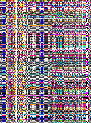
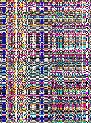
optimized png generation in ChunkyPNG

diff --git a/src/mappacks.rb b/src/mappacks.rb
@@ -415,7 +415,7 @@ module Map
       bg_color = PALETTE[2, palette_idx]
       fg_color = PALETTE[0, palette_idx]
       image = ChunkyPNG::Image.new(WIDTH, HEIGHT, bg_color)
-      next image.to_blob if blank
+      next image.to_blob(:fast_rgba) if blank
       bench(:step, 'Setup     ') if BENCH_IMAGES
 
       # Initialize tile and object images in the palette
@@ -495,7 +495,7 @@ module Map
       end
       bench(:step, 'Borders   ') if BENCH_IMAGES
 
-      res = image.to_blob
+      res = image.to_blob(:fast_rgba)
       bench(:step, 'Blobify   ') if BENCH_IMAGES
       res
     end
@@ -525,7 +525,7 @@ module Map
 
     _fork do
       # Parse palette
-      bench(:start)
+      bench(:start) if BENCH_IMAGES
       themes = THEMES.map(&:downcase)
       theme = theme.to_s.downcase!
       theme = DEFAULT_PALETTE.downcase if !themes.include?(theme)
@@ -605,7 +605,8 @@ module Map
 
       # Save result
       fn = tmp_filename("#{name}_aux.png")
-      mpl.savefig(fn, bbox_inches: 'tight', pad_inches: 0, dpi: 390)
+      byebug
+      mpl.savefig(fn, bbox_inches: 'tight', pad_inches: 0, dpi: 390, pil_kwargs: { compress_level: 1 })
       image = File.binread(fn)
       bench(:step, 'Trace save ') if BENCH_IMAGES
       image

diff --git a/src/messages.rb b/src/messages.rb
@@ -1959,7 +1959,7 @@ def send_meminfo(event)
   used = total - available
 
   str =  "system: #{"%4d MB" % available} of #{"%4d MB" % total} (#{"%5.2f%%" % [100 * available / total]}) available\n"
-  str << "outte:  #{"%4d MB" % mem} of #{"%4d MB" % available} (#{"%5.2f%%" % [100 * mem / available]}) used"
+  str << "outte:  #{"%4d MB" % mem} of #{"%4d MB" % used} (#{"%5.2f%%" % [100 * mem / used]}) used"
   event << "Memory usage:\n#{format_block(str)}"
 end
 

diff --git a/src/threads.rb b/src/threads.rb
@@ -5,8 +5,6 @@
 # See the TASK VARIABLES in src/constants.rb for configuration. Also, see the
 # end of src/inne++.rb for the joining thread.
 
-require 'get_process_mem'
-
 require_relative 'constants.rb'
 require_relative 'utils.rb'
 require_relative 'models.rb'
